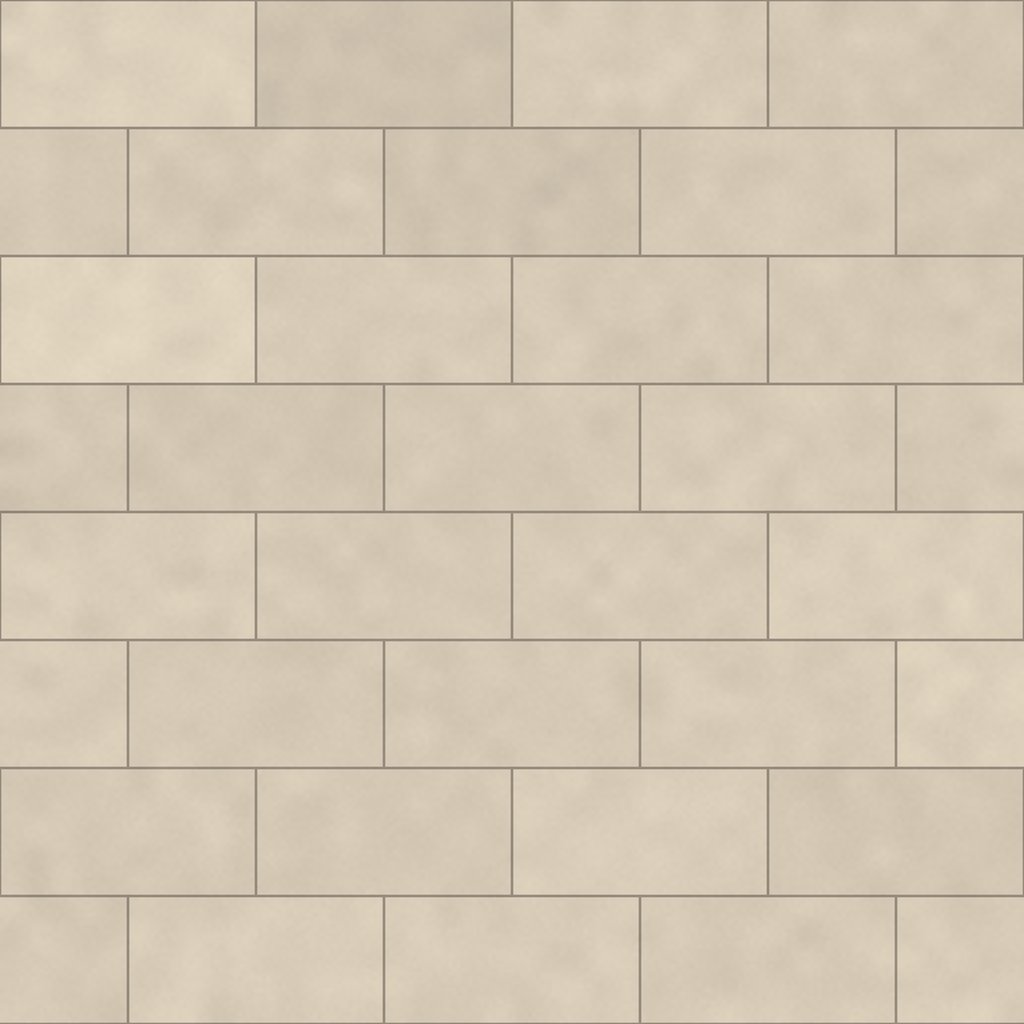
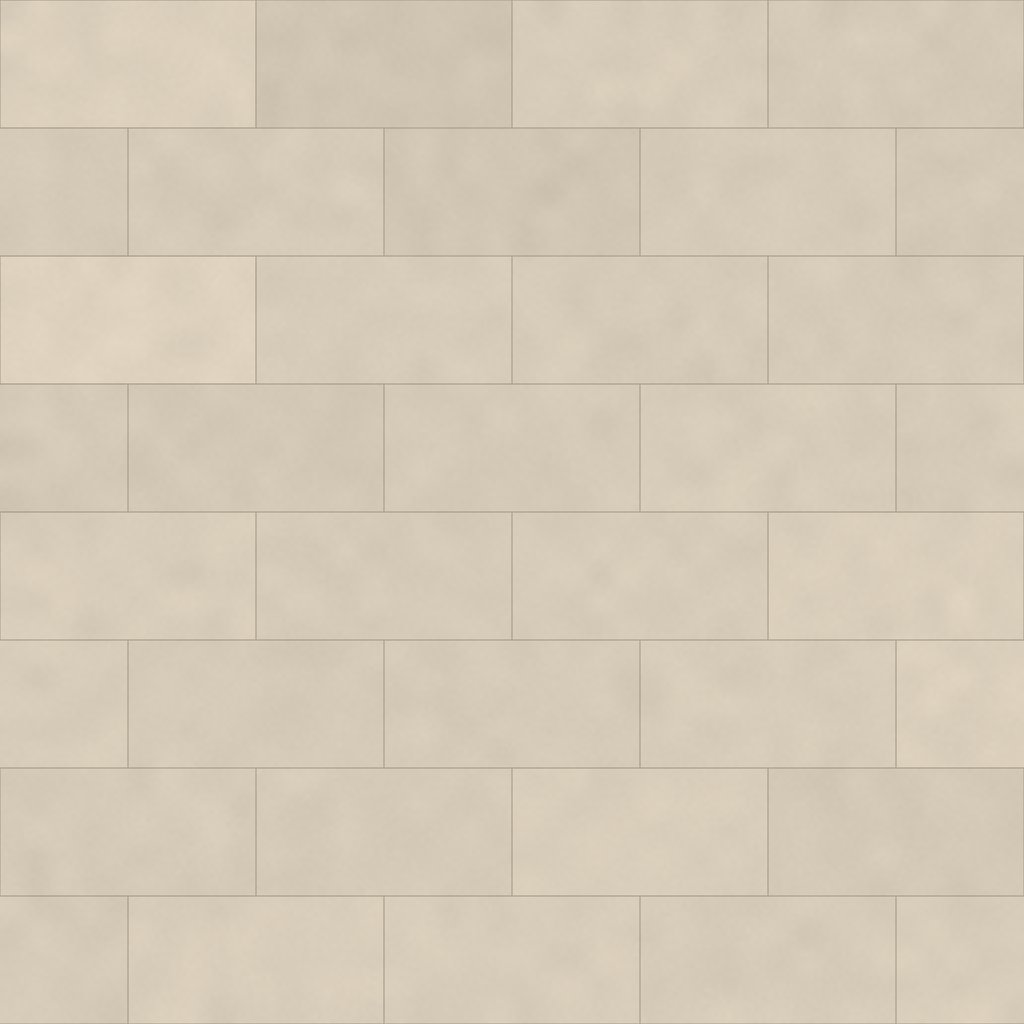
Olive Hill concept: 42x60 acrylic pan, Marble Manor shower tile, LVT parallel to vanity, Option 2 neo-angle layout + walkthrough toggle
Claude-Session: https://claude.ai/code/session_01SeE1aYPeiWt3ibgsh6fWaQ

diff --git a/concepts/olive-hill/walkthrough.html b/concepts/olive-hill/walkthrough.html
@@ -24,6 +24,7 @@ button.on{background:#C9A961;color:#141413}
 <div id="walk"><button id="fw" aria-label="Walk forward">&#8593;</button><button id="bk" aria-label="Walk back">&#8595;</button></div>
 <div id="bar">
 <button data-v="entry">Doorway</button><button data-v="shower">Shower</button><button data-v="inside">Inside shower</button><button data-v="vanity">Vanity</button>
+<button id="opt" class="on">Option 1: 42×60 knee wall</button>
 <button id="style" class="on" aria-pressed="true">Styling on</button>
 </div>
 <script type="module">
@@ -44,13 +45,13 @@ const W=103, D=120, HE=118, HR=152, HF=110, RZ0=50, RZ1=66, WH=170;
 function ceilH(z){ return z<=RZ0? HE+(HR-HE)*z/RZ0 : z<=RZ1? HR : HR-(HR-HF)*(z-RZ1)/(D-RZ1); }
 const loader=new THREE.TextureLoader();
 function tex(url,size){ const t=loader.load(url); t.colorSpace=THREE.SRGBColorSpace; t.wrapS=t.wrapT=THREE.RepeatWrapping; t.anisotropy=8; return {t,size}; }
-const TX={floor:tex('tex-floor.jpg',96), tile:tex('tex-wall.jpg',48), wood:tex('tex-wood.jpg',[20,40]), quartz:tex('tex-quartz.jpg',48)};
+const TX={floor:tex('tex-floor.jpg',96), tile:tex('tex-wall.jpg',72), wood:tex('tex-wood.jpg',[20,40]), quartz:tex('tex-quartz.jpg',48)};
 function tmat(k,rough,extra={}){ const m=new THREE.MeshStandardMaterial({map:TX[k].t,roughness:rough,...extra}); m.userData.size=TX[k].size; m.name=k; return m; }
 const M={
   paint:new THREE.MeshStandardMaterial({color:'#ece5d8',roughness:0.92}),
   ceiling:new THREE.MeshStandardMaterial({color:'#f4f1ea',roughness:0.95,emissive:'#4a4740',side:THREE.DoubleSide}),
   trim:new THREE.MeshStandardMaterial({color:'#f6f4ee',roughness:0.55}),
-  floor:tmat('floor',0.55), tile:tmat('tile',0.18), wood:tmat('wood',0.5), quartz:tmat('quartz',0.15),
+  floor:tmat('floor',0.6), tile:tmat('tile',0.45), wood:tmat('wood',0.5), quartz:tmat('quartz',0.15),
   metal:new THREE.MeshStandardMaterial({color:'#c8c5be',metalness:0.9,roughness:0.32}),
   bronze:new THREE.MeshStandardMaterial({color:'#d4b482',metalness:0.85,roughness:0.32}),
   sink:new THREE.MeshStandardMaterial({color:'#fbfaf7',roughness:0.15,side:THREE.DoubleSide}),
@@ -67,7 +68,7 @@ function worldUV(geo,mesh,size){ const sx=Array.isArray(size)?size[0]:size, sy=A
   const p=geo.attributes.position, n=geo.attributes.normal, uv=geo.attributes.uv; mesh.updateMatrixWorld();
   const v=new THREE.Vector3();
   for(let i=0;i<p.count;i++){ v.fromBufferAttribute(p,i).applyMatrix4(mesh.matrixWorld); const nx=Math.abs(n.getX(i)),ny=Math.abs(n.getY(i));
-    if(ny>0.5) uv.setXY(i,v.x/sx,v.z/sy); else if(nx>0.5) uv.setXY(i,v.z/sx,v.y/sy); else uv.setXY(i,v.x/sx,v.y/sy); }
+    if(ny>0.5) uv.setXY(i,(mesh.material.name==='floor'?v.z:v.x)/sx,(mesh.material.name==='floor'?v.x:v.z)/sy); else if(nx>0.5) uv.setXY(i,v.z/sx,v.y/sy); else uv.setXY(i,v.x/sx,v.y/sy); }
   uv.needsUpdate=true; }
 let TARGET=scene; const styled=new THREE.Group(); scene.add(styled);
 function box(x1,x2,y1,y2,z1,z2,mat,shadow=true){
@@ -151,24 +152,53 @@ for(const sz of [16.5,62.5]){
     const gl=new THREE.Mesh(new THREE.SphereGeometry(2.6,24,16),M.globe); gl.position.set(4.2,78,sz+d); scene.add(gl); }
 }
 
-// ---------- shower: 37x54 double-curb pan in the old stall corner — knee wall on the long side, entry over the short curb ----------
-const SX=61.5, SZ=66;
-box(SX,SX+4.5,0,42,SZ,D,M.tile); box(SX-0.5,SX+5,42,43,SZ-0.5,D,M.quartz);
-box(SX+4.5,W,0,4,SZ,SZ+4.5,M.tile); box(SX+4.5,W,4,4.75,SZ-0.5,SZ+5,M.quartz);
-function glass(x1,x2,y1,y2,z1,z2){ box(x1,x2,y1,y2,z1,z2,M.glass,false); }
-glass(SX+2,SX+2.4,43,78,SZ+3,D-0.3); box(SX+1.9,SX+2.5,77.75,78,SZ+3,D-0.3,M.glassEdge,false);
-glass(91,W-0.3,4.75,78,SZ+2,SZ+2.4); box(91,W-0.3,77.75,78,SZ+1.9,SZ+2.5,M.glassEdge,false);
-for(const y of [48,72]) box(SX+1.6,SX+2.8,y,y+1.4,SZ+6,SZ+8,M.metal,false);
-box(W-1.2,W,40,41.5,SZ+1.6,SZ+2.8,M.metal,false);
+const optA=new THREE.Group(), optB=new THREE.Group(); scene.add(optA); scene.add(optB); optB.visible=false;
+TARGET=optA;
+// ---------- shower: 42x60 double-threshold acrylic pan in the old stall corner — knee wall rides on the long threshold, entry over the short end ----------
+const SX=61, SZ=60, KW=5;
+var acryl=new THREE.MeshStandardMaterial({color:'#f4f2ec',roughness:0.18});
+box(SX,W,0,0.35,SZ,D,acryl,false); box(SX+KW,W,0,2.75,SZ,SZ+3,acryl);
+box(SX,SX+KW,0,42,SZ,D,M.tile); box(SX-0.5,SX+KW+0.5,42,43,SZ-0.5,D,M.quartz);
+var glass=function(x1,x2,y1,y2,z1,z2){ box(x1,x2,y1,y2,z1,z2,M.glass,false); };
+glass(SX+2.3,SX+2.7,43,78,SZ+3,D-0.3); box(SX+2.2,SX+2.8,77.75,78,SZ+3,D-0.3,M.glassEdge,false);
+glass(91,W-0.3,2.75,78,SZ+1.3,SZ+1.7); box(91,W-0.3,77.75,78,SZ+1.2,SZ+1.8,M.glassEdge,false);
+for(const y of [48,72]) box(SX+1.9,SX+3.1,y,y+1.4,SZ+6,SZ+8,M.metal,false);
+box(W-1.2,W,40,41.5,SZ+0.9,SZ+2.1,M.metal,false);
 // tiled walls to 85", niche on the window-side wall
-box(SX+4.5,W,0,85,D-0.3,D,M.tile);
-box(W-0.3,W,0,85,SZ+4.5,88,M.tile); box(W-0.3,W,0,85,112,D,M.tile); box(W-0.3,W,0,48,88,112,M.tile); box(W-0.3,W,60,85,88,112,M.tile);
-box(W+3,W+3.3,48,60,88,112,M.tile); box(W,W+3,47.6,48,88,112,M.quartz); box(W,W+3,60,60.3,88,112,M.tile); box(W,W+3,48,60,87.7,88,M.tile); box(W,W+3,48,60,112,112.3,M.tile);
+box(SX+KW,W,0,85,D-0.3,D,M.tile);
+box(W-0.3,W,0,85,SZ+3,86,M.tile); box(W-0.3,W,0,85,110,D,M.tile); box(W-0.3,W,0,48,86,110,M.tile); box(W-0.3,W,60,85,86,110,M.tile);
+box(W+3,W+3.3,48,60,86,110,M.tile); box(W,W+3,47.6,48,86,110,M.quartz); box(W,W+3,60,60.3,86,110,M.tile); box(W,W+3,48,60,85.7,86,M.tile); box(W,W+3,48,60,110,110.3,M.tile);
 // valve + shower head on the far wall
 cyl(3.6,3.6,0.5,M.metal,84.5,44,D-0.55,Math.PI/2); cyl(0.45,0.45,3,M.metal,84.5,44,D-2.3,Math.PI/2);
 cyl(1.2,1.2,0.4,M.metal,84.5,80,D-0.5,Math.PI/2); cyl(0.4,0.4,6,M.metal,84.5,79.5,D-3.3,Math.PI/2.3);
 cyl(2.6,1.2,1.2,M.metal,84.5,78.6,D-6.6,Math.PI/2-0.45);
-box(81.5,87.5,0,0.06,96,98,M.metal,false);
+cyl(2,2,0.1,M.metal,84.5,0.4,108);
+
+TARGET=scene;
+// ---------- OPTION 2: 42x42 neo-angle acrylic base, knee walls on both returns, neo-angle door ----------
+TARGET=optB;
+{ const X0=61, Y0=78, R=16, KW=5;
+  function prismXZ(pts,y0,y1,mat){ const sh=new THREE.Shape(); sh.moveTo(pts[0][0],pts[0][1]); for(const p of pts.slice(1)) sh.lineTo(p[0],p[1]); sh.lineTo(pts[0][0],pts[0][1]);
+    const g=new THREE.ExtrudeGeometry(sh,{depth:y1-y0,bevelEnabled:false}); g.rotateX(Math.PI/2); g.translate(0,y1,0); const m=new THREE.Mesh(g,mat); m.receiveShadow=true; m.castShadow=true; optB.add(m); return m; }
+  function seg(xa,za,xb,zb,th,y0,y1,mat){ const dx=xb-xa,dz=zb-za,L=Math.hypot(dx,dz),nx=-dz/L*th/2,nz=dx/L*th/2;
+    return prismXZ([[xa+nx,za+nz],[xb+nx,zb+nz],[xb-nx,zb-nz],[xa-nx,za-nz]],y0,y1,mat); }
+  prismXZ([[X0,D],[X0,D-R],[W-R,Y0],[W,Y0],[W,D]],0,0.35,acryl);
+  box(X0,X0+KW,0,42,D-R,D,M.tile); box(X0-0.5,X0+KW+0.5,42,43,D-R-0.5,D,M.quartz);
+  box(W-R,W,0,42,Y0,Y0+KW,M.tile); box(W-R-0.5,W,42,43,Y0-0.5,Y0+KW+0.5,M.quartz);
+  glass(X0+2.3,X0+2.7,43,78,D-R+0.5,D-0.3); glass(W-R+0.5,W-0.3,43,78,Y0+2.3,Y0+2.7);
+  const dA=[X0+KW*0.5,D-R], dB=[W-R,Y0+KW*0.5];
+  seg(dA[0]+1.2,dA[1]-1.2,dB[0]-1.2,dB[1]+1.2,3,0,2.75,acryl);
+  seg(dA[0]+1.6,dA[1]-1.6,dB[0]-1.6,dB[1]+1.6,0.4,3,77,M.glass);
+  for(const sg of [-1,1]) cyl(0.4,0.4,10,M.metal,dB[0]-6+sg*1.6,40,dB[1]+6+sg*1.6);
+  box(X0+KW,W,0,85,D-0.3,D,M.tile);
+  box(W-0.3,W,0,85,Y0+KW,90,M.tile); box(W-0.3,W,0,85,114,D,M.tile); box(W-0.3,W,0,48,90,114,M.tile); box(W-0.3,W,60,85,90,114,M.tile);
+  box(W+3,W+3.3,48,60,90,114,M.tile); box(W,W+3,47.6,48,90,114,M.quartz); box(W,W+3,60,60.3,90,114,M.tile);
+  cyl(3.6,3.6,0.5,M.metal,84,44,D-0.55,Math.PI/2); cyl(0.45,0.45,3,M.metal,84,44,D-2.3,Math.PI/2);
+  cyl(1.2,1.2,0.4,M.metal,84,80,D-0.5,Math.PI/2); cyl(0.4,0.4,6,M.metal,84,79.5,D-3.3,Math.PI/2.3); cyl(2.6,1.2,1.2,M.metal,84,78.6,D-6.6,Math.PI/2-0.45);
+  cyl(2,2,0.1,M.metal,90,0.4,104);
+  box(W-0.6,W,0,5,60,Y0,M.trim,false);
+}
+TARGET=scene;
 
 // ---------- styling ----------
 TARGET=styled;
@@ -197,16 +227,18 @@ const cam=new THREE.PerspectiveCamera(70,innerWidth/innerHeight,1,2000);
 function fitFov(){ const asp=innerWidth/innerHeight; const h=THREE.MathUtils.degToRad(82); cam.fov=Math.min(80,Math.max(55,THREE.MathUtils.radToDeg(2*Math.atan(Math.tan(h/2)/asp)))); cam.aspect=asp; cam.updateProjectionMatrix(); }
 fitFov();
 const EYE=62; let yaw=0,pitch=-0.1; const pos=new THREE.Vector3(); let target=null;
-const VIEWS={entry:[[44,EYE,4],[60,50,110]],shower:[[22,EYE,50],[88,40,100]],inside:[[80,EYE,76],[84,44,D]],vanity:[[86,EYE,60],[0,46,40]]};
+const VIEWS={entry:[[44,EYE,4],[60,50,110]],shower:[[22,EYE,50],[88,40,100]],inside:[[82,EYE,72],[84,44,D]],vanity:[[86,EYE,60],[0,46,40]]};
 function lookAt(p,l){ const d=new THREE.Vector3(...l).sub(new THREE.Vector3(...p)); yaw=Math.atan2(-d.x,-d.z); pitch=Math.atan2(d.y,Math.hypot(d.x,d.z)); }
 function clampPos(p){ p.x=Math.max(p.z>80?24:25,Math.min(98,p.x)); p.z=Math.max(5,Math.min(115,p.z));
-  const inShower=p.x>69 && p.z>71;
-  if(!inShower && p.x>56 && p.z>71) p.x=56;                    // knee wall
-  if(!inShower && p.z>61 && p.z<71 && p.x>88) p.z=61;          // fixed glass at the entry
+  if(typeof OPT!=='undefined' && OPT===2){ const inS=(p.x-61)+(p.z-78)>58 && p.x>66 && p.z>83; if(!inS && (p.x-61)+(p.z-78)>50) { const k=((p.x-61)+(p.z-78)-50)/2; p.x-=k; p.z-=k; } return p; }
+  const inShower=p.x>68 && p.z>64;
+  if(!inShower && p.x>56 && p.z>64) p.x=56;                    // knee wall
+  if(!inShower && p.z>55 && p.z<64 && p.x>88) p.z=55;          // fixed glass at the entry
   return p; }
 function go(n){ const [p,l]=VIEWS[n]; target={pos:new THREE.Vector3(...p),view:l}; }
 pos.set(...VIEWS.entry[0]); lookAt(VIEWS.entry[0],VIEWS.entry[1]);
 document.querySelectorAll('[data-v]').forEach(b=>b.addEventListener('click',()=>go(b.dataset.v)));
+let OPT=1; const optBtn=document.getElementById('opt'); optBtn.addEventListener('click',()=>{ OPT=OPT===1?2:1; optA.visible=OPT===1; optB.visible=OPT===2; optBtn.textContent=OPT===1?'Option 1: 42×60 knee wall':'Option 2: neo-angle'; });
 const styleBtn=document.getElementById('style'); styleBtn.addEventListener('click',()=>{ const o=!styled.visible; styled.visible=o; styleBtn.textContent=o?'Styling on':'Styling off'; styleBtn.classList.toggle('on',o); styleBtn.setAttribute('aria-pressed',o); });
 let drag=null; const el=renderer.domElement; const ray=new THREE.Raycaster();
 el.addEventListener('pointerdown',e=>{ drag={x:e.clientX,y:e.clientY,moved:0}; el.setPointerCapture(e.pointerId); });

diff --git a/concepts/olive-hill/index.html b/concepts/olive-hill/index.html
@@ -54,7 +54,7 @@ footer a{color:var(--label)}
     <div>
       <div class="eyebrow" style="color:var(--label)">Interactive</div>
       <h2>Walk through the new bathroom</h2>
-      <p>Look around and walk the room in 3D, built from the scan of your bathroom. Turn the styling on and off.</p>
+      <p>Look around and walk the room in 3D, built from the scan of your bathroom. Switch between the two shower options and turn the styling on and off.</p>
     </div>
     <a class="btn" href="walkthrough.html">Start the walkthrough</a>
   </section>
@@ -64,7 +64,7 @@ footer a{color:var(--label)}
     <figcaption>
       <div class="eyebrow" style="color:var(--label)">The Room</div>
       <h3>How it all comes together</h3>
-      <p>Your vaulted ceiling stays, with recessed lights. Warm limestone-look 12×24 floor tile, soft warm white walls, and a new Brown Sugar vanity that runs wall to wall. The old tub spot under the window opens up.</p>
+      <p>Your vaulted ceiling stays, with recessed lights. Warm limestone-look 12×24 LVT running the length of the vanity, soft warm white walls, and a new Brown Sugar vanity that runs wall to wall. The old tub spot under the window opens up.</p>
     </figcaption>
   </figure>
 
@@ -72,8 +72,30 @@ footer a{color:var(--label)}
     <img src="shower.jpg" alt="Open walk-in shower behind a tiled knee wall with glass">
     <figcaption>
       <div class="eyebrow" style="color:var(--label)">The Shower</div>
-      <h3>Open walk-in shower</h3>
-      <p>The old stall comes out and the shower takes over that whole corner. A tiled knee wall with a stone cap and frameless glass runs along the long side, and you step in over a low curb on the short end, with no door. Cream 3×12 glossy wall tile laid in a brick pattern, a recessed niche, and brushed nickel trim.</p>
+      <h3>Shower Option 1 — open walk-in</h3>
+      <p>The old stall comes out and a 42×60 shower takes over that whole corner, on an acrylic shower base. A tiled knee wall with a stone cap and frameless glass runs along the long side, and you step in over a low threshold on the short end, with no door. Marble-look 12×24 matte porcelain on the walls, laid horizontally, with a recessed niche and brushed nickel trim.</p>
+    </figcaption>
+  </figure>
+
+  <section class="sel">
+    <div class="eyebrow" style="color:var(--label)">Shower Option 2</div>
+    <h2>Neo-angle shower</h2>
+    <p>Same corner, shaped differently: a 42×42 neo-angle acrylic base with short tiled knee walls on both sides, glass on top, and a glass door on the angled front. It's a little smaller inside than Option 1, but it opens up more floor in front of the vanity and by the window.</p>
+  </section>
+
+  <figure>
+    <img src="b_main.jpg" alt="Option 2: neo-angle shower with two knee walls">
+    <figcaption>
+      <h3>Option 2 — the room</h3>
+      <p>The angled door faces the middle of the room, so the walkway in front of the vanity stays wide.</p>
+    </figcaption>
+  </figure>
+
+  <figure>
+    <img src="b_shower.jpg" alt="Option 2: neo-angle shower close-up">
+    <figcaption>
+      <h3>Option 2 — the shower</h3>
+      <p>Knee walls with a stone cap and fixed glass on both returns, a frameless glass door on the angle, the same marble-look wall tile and recessed niche.</p>
     </figcaption>
   </figure>
 
@@ -90,9 +112,9 @@ footer a{color:var(--label)}
     <h2>What's in the design</h2>
     <dl>
       <dt>Removed</dt><dd>Garden tub and the existing stall shower, down to the studs</dd>
-      <dt>Shower</dt><dd>About 37×54 walk-in shower on a curbed shower base; tiled knee wall with stone cap and fixed frameless glass; step-in over the short end; recessed niche</dd>
-      <dt>Shower walls</dt><dd>Cream 3×12 glossy tile, light grout, about 7 feet high</dd>
-      <dt>Floor</dt><dd>Warm limestone-look 12×24 matte tile, in the room and the shower</dd>
+      <dt>Shower</dt><dd>42×60 walk-in shower on an acrylic shower base; tiled knee wall with stone cap and fixed frameless glass; step-in over a low threshold on the short end; recessed niche</dd>
+      <dt>Shower walls</dt><dd>Daltile Marble Manor Calacatta 12×24 matte porcelain, laid horizontally, about 7 feet high</dd>
+      <dt>Floor</dt><dd>Warm limestone-look 12×24 LVT, running parallel to the vanity</dd>
       <dt>Vanity</dt><dd>Wall-to-wall double vanity, KraftMaid Keagan door in Brown Sugar stain, Golden Beach quartz top, undermount sinks</dd>
       <dt>Fixtures</dt><dd>Brushed nickel faucets and shower trim</dd>
       <dt>Lighting</dt><dd>Recessed lights in the vaulted ceiling, including the shower; 3-light fixtures over each mirror</dd>
